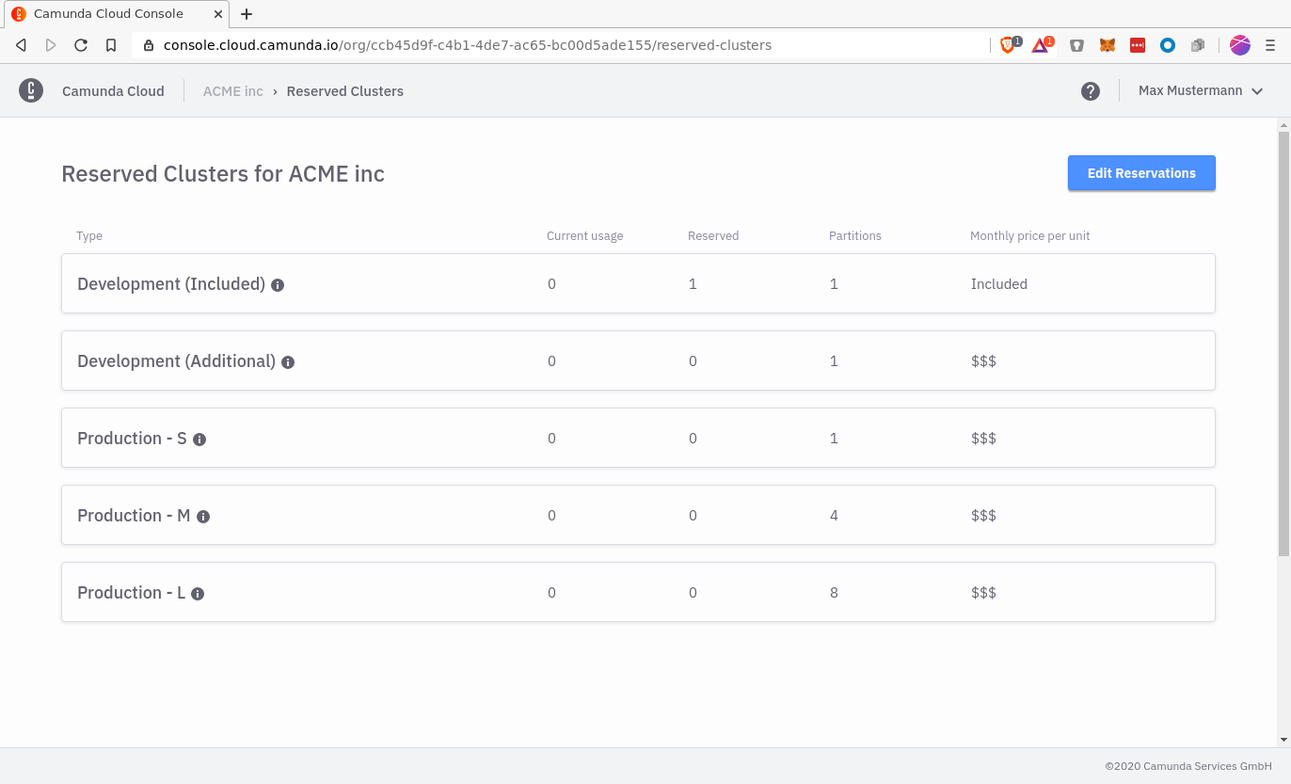
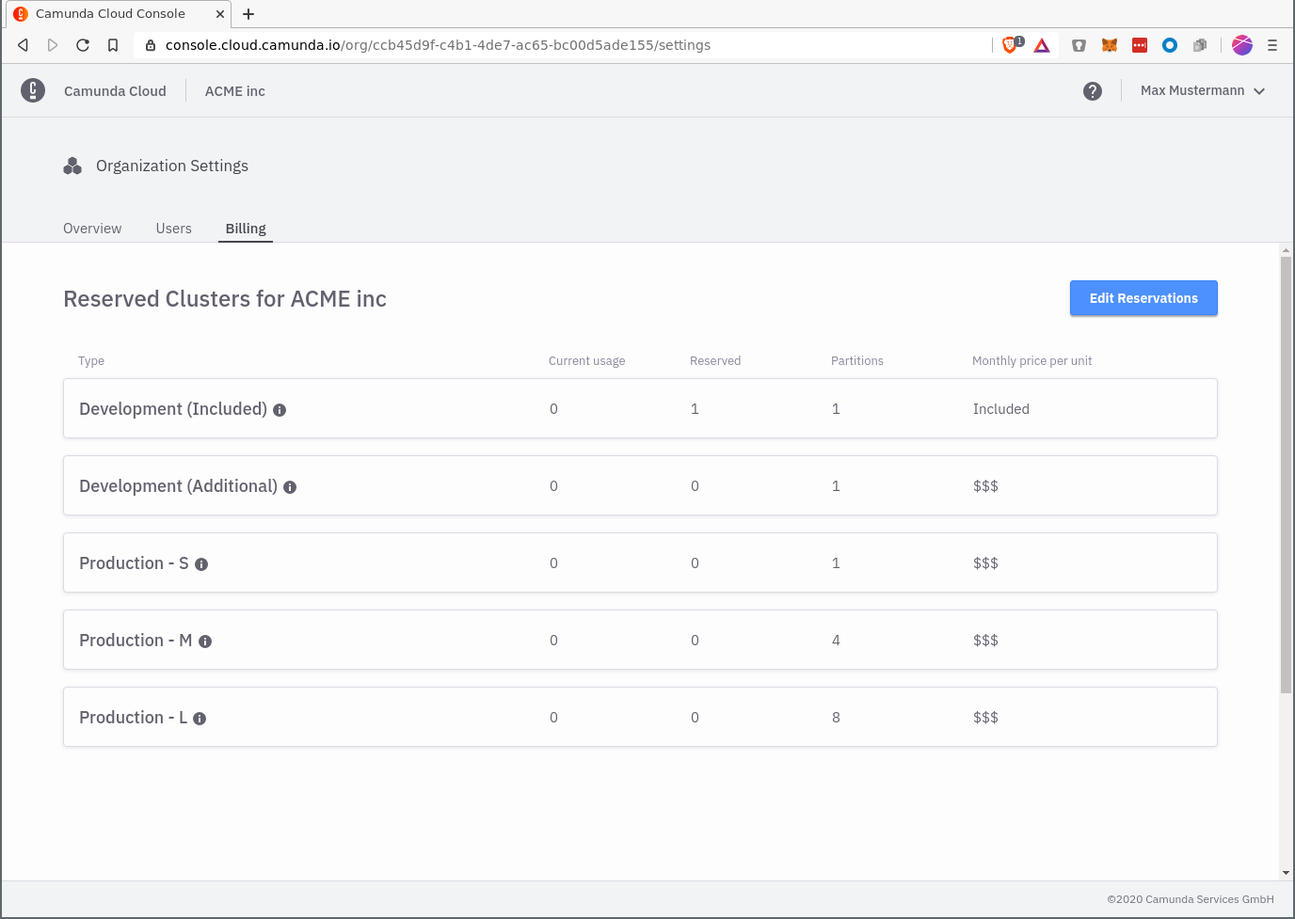
Deploy website
Deploy website version based on 33ee877110cbfe5472c657fe02191b79c25a7f81

diff --git a/docs/camunda-cloud-console.html b/docs/camunda-cloud-console.html
@@ -65,6 +65,42 @@
 <p>To interact with Zeebe, an application must authenticate itself via OAuth. A <a href="/docs/clients">client</a> must be created in advance for this purpose.</p>
 <h2><a class="anchor" aria-hidden="true" id="rights-concept"></a><a href="#rights-concept" aria-hidden="true" class="hash-link"><svg class="hash-link-icon" aria-hidden="true" height="16" version="1.1" viewBox="0 0 16 16" width="16"><path fill-rule="evenodd" d="M4 9h1v1H4c-1.5 0-3-1.69-3-3.5S2.55 3 4 3h4c1.45 0 3 1.69 3 3.5 0 1.41-.91 2.72-2 3.25V8.59c.58-.45 1-1.27 1-2.09C10 5.22 8.98 4 8 4H4c-.98 0-2 1.22-2 2.5S3 9 4 9zm9-3h-1v1h1c1 0 2 1.22 2 2.5S13.98 12 13 12H9c-.98 0-2-1.22-2-2.5 0-.83.42-1.64 1-2.09V6.25c-1.09.53-2 1.84-2 3.25C6 11.31 7.55 13 9 13h4c1.45 0 3-1.69 3-3.5S14.5 6 13 6z"></path></svg></a>Rights concept</h2>
 <p>When a user signs up to Camunda Cloud, they receive a personal organization. Clusters that the user creates in this organization are assigned to this organization.</p>
-<p>If several users need access to the same Zeebe cluster, all users can be assigned to the same organization. A corresponding organisation management for users is planned, but not yet implemented. If it's already necessary for your project, please contact the Camunda Cloud Team.</p>
-<p>If a user is assigned to more than one organization, the organization can be changed in the avatar menu of the navigation bar.</p>
-</span></div></article></div><div class="docLastUpdate"><em>Last updated on 6/8/2020</em></div><div class="docs-prevnext"><a class="docs-prev button" href="/docs/quick-start"><span class="arrow-prev">← </span><span>Quick start</span></a><a class="docs-next button" href="/docs/cli-zbctl"><span>CLI</span><span class="arrow-next"> →</span></a></div></div></div><nav class="onPageNav"><ul class="toc-headings"><li><a href="#rights-concept">Rights concept</a></li></ul></nav></div><footer class="nav-footer" id="footer"><section class="sitemap"><a href="/" class="nav-home"></a><div><h5>Docs</h5><a href="/docs/en/welcome.html">Welcome</a><a href="/docs/en/quick-start.html">Quick start</a></div><div><h5>Community</h5><a href="https://zeebe-io.slack.com/">Community Chat</a><a href="https://twitter.com/camunda" target="_blank" rel="noreferrer noopener">Twitter</a></div><div><h5>More</h5><a href="https://blog.camunda.com/">Blog</a><a href="https://github.com/camunda">GitHub</a><a href="https://console.cloud.camunda.io/terms/">Terms and Conditions</a></div></section><section class="copyright">Copyright © 2020 Camunda Cloud</section></footer></div></body></html>
+<p>If several users need access to the same Zeebe cluster, all users can be assigned to the same organization. If a user is assigned to more than one organization, the organization can be changed in the menu of the navigation bar.</p>
+<p><img src="./assets/avatar-menue-multiple-organisations.png" alt="avatar-menue-multiple-organisations"></p>
+<h2><a class="anchor" aria-hidden="true" id="organization-settings"></a><a href="#organization-settings" aria-hidden="true" class="hash-link"><svg class="hash-link-icon" aria-hidden="true" height="16" version="1.1" viewBox="0 0 16 16" width="16"><path fill-rule="evenodd" d="M4 9h1v1H4c-1.5 0-3-1.69-3-3.5S2.55 3 4 3h4c1.45 0 3 1.69 3 3.5 0 1.41-.91 2.72-2 3.25V8.59c.58-.45 1-1.27 1-2.09C10 5.22 8.98 4 8 4H4c-.98 0-2 1.22-2 2.5S3 9 4 9zm9-3h-1v1h1c1 0 2 1.22 2 2.5S13.98 12 13 12H9c-.98 0-2-1.22-2-2.5 0-.83.42-1.64 1-2.09V6.25c-1.09.53-2 1.84-2 3.25C6 11.31 7.55 13 9 13h4c1.45 0 3-1.69 3-3.5S14.5 6 13 6z"></path></svg></a>Organization Settings</h2>
+<p>Organization settings can be accessed via the menu in the navigation bar.</p>
+<p><img src="./assets/avatar-menue.png" alt="avatar-menue"></p>
+<h3><a class="anchor" aria-hidden="true" id="overview"></a><a href="#overview" aria-hidden="true" class="hash-link"><svg class="hash-link-icon" aria-hidden="true" height="16" version="1.1" viewBox="0 0 16 16" width="16"><path fill-rule="evenodd" d="M4 9h1v1H4c-1.5 0-3-1.69-3-3.5S2.55 3 4 3h4c1.45 0 3 1.69 3 3.5 0 1.41-.91 2.72-2 3.25V8.59c.58-.45 1-1.27 1-2.09C10 5.22 8.98 4 8 4H4c-.98 0-2 1.22-2 2.5S3 9 4 9zm9-3h-1v1h1c1 0 2 1.22 2 2.5S13.98 12 13 12H9c-.98 0-2-1.22-2-2.5 0-.83.42-1.64 1-2.09V6.25c-1.09.53-2 1.84-2 3.25C6 11.31 7.55 13 9 13h4c1.45 0 3-1.69 3-3.5S14.5 6 13 6z"></path></svg></a>Overview</h3>
+<p>The overview provides a summary of the organization:</p>
+<ul>
+<li>Organization name</li>
+<li>Pricing Plan</li>
+<li>Owner of the organization</li>
+</ul>
+<h3><a class="anchor" aria-hidden="true" id="users"></a><a href="#users" aria-hidden="true" class="hash-link"><svg class="hash-link-icon" aria-hidden="true" height="16" version="1.1" viewBox="0 0 16 16" width="16"><path fill-rule="evenodd" d="M4 9h1v1H4c-1.5 0-3-1.69-3-3.5S2.55 3 4 3h4c1.45 0 3 1.69 3 3.5 0 1.41-.91 2.72-2 3.25V8.59c.58-.45 1-1.27 1-2.09C10 5.22 8.98 4 8 4H4c-.98 0-2 1.22-2 2.5S3 9 4 9zm9-3h-1v1h1c1 0 2 1.22 2 2.5S13.98 12 13 12H9c-.98 0-2-1.22-2-2.5 0-.83.42-1.64 1-2.09V6.25c-1.09.53-2 1.84-2 3.25C6 11.31 7.55 13 9 13h4c1.45 0 3-1.69 3-3.5S14.5 6 13 6z"></path></svg></a>Users</h3>
+<p>Under this setting members of the current organization can be managed. A user can have one of the following roles:</p>
+<ul>
+<li>Owner: Owner of the organization (currently limited to one user, cannot be changed by the user)</li>
+<li>Admin: Restricted rights for user management</li>
+<li>Member: Can manage Zeebe Clusters and Client and use Operate</li>
+</ul>
+<p>The following table illustrates the rights of the each roles:</p>
+<table>
+<thead>
+<tr><th></th><th>Owner</th><th>Admin</th><th>Member</th></tr>
+</thead>
+<tbody>
+<tr><td>Manage Zeebe Clusters</td><td>X</td><td>X</td><td>X</td></tr>
+<tr><td>Manage Clients</td><td>X</td><td>X</td><td>X</td></tr>
+<tr><td>Use Operate</td><td>X</td><td>X</td><td>X</td></tr>
+<tr><td>Users: Manage Members</td><td>X</td><td>X</td><td></td></tr>
+<tr><td>Billing: Manage Reservations</td><td>X</td><td>X</td><td></td></tr>
+<tr><td>Billing: Request Paid Plan</td><td>X</td><td>X</td><td></td></tr>
+<tr><td>Users: Manage Admins</td><td>X</td><td></td><td></td></tr>
+</tbody>
+</table>
+<p>Users are invited to a Camunda cloud organisation via their email address, which must be accepted by the user. As long as the invitation has not been accepted, the user remains in the Pending state.</p>
+<p>People can also be invited to an organisation that does not yet have a Camunda cloud account. In this case the invited person must first create a Camunda Cloud account and then has access to the organisation.</p>
+<h3><a class="anchor" aria-hidden="true" id="billing"></a><a href="#billing" aria-hidden="true" class="hash-link"><svg class="hash-link-icon" aria-hidden="true" height="16" version="1.1" viewBox="0 0 16 16" width="16"><path fill-rule="evenodd" d="M4 9h1v1H4c-1.5 0-3-1.69-3-3.5S2.55 3 4 3h4c1.45 0 3 1.69 3 3.5 0 1.41-.91 2.72-2 3.25V8.59c.58-.45 1-1.27 1-2.09C10 5.22 8.98 4 8 4H4c-.98 0-2 1.22-2 2.5S3 9 4 9zm9-3h-1v1h1c1 0 2 1.22 2 2.5S13.98 12 13 12H9c-.98 0-2-1.22-2-2.5 0-.83.42-1.64 1-2.09V6.25c-1.09.53-2 1.84-2 3.25C6 11.31 7.55 13 9 13h4c1.45 0 3-1.69 3-3.5S14.5 6 13 6z"></path></svg></a>Billing</h3>
+<p>This setting is only visible in the Professional Plan for Owners and Admins. More about it under <a href="/docs/professional-reservations">Managing Reservations</a>.</p>
+</span></div></article></div><div class="docLastUpdate"><em>Last updated on 7/28/2020</em></div><div class="docs-prevnext"><a class="docs-prev button" href="/docs/quick-start"><span class="arrow-prev">← </span><span>Quick start</span></a><a class="docs-next button" href="/docs/cli-zbctl"><span>CLI</span><span class="arrow-next"> →</span></a></div></div></div><nav class="onPageNav"><ul class="toc-headings"><li><a href="#rights-concept">Rights concept</a></li><li><a href="#organization-settings">Organization Settings</a><ul class="toc-headings"><li><a href="#overview">Overview</a></li><li><a href="#users">Users</a></li><li><a href="#billing">Billing</a></li></ul></li></ul></nav></div><footer class="nav-footer" id="footer"><section class="sitemap"><a href="/" class="nav-home"></a><div><h5>Docs</h5><a href="/docs/en/welcome.html">Welcome</a><a href="/docs/en/quick-start.html">Quick start</a></div><div><h5>Community</h5><a href="https://zeebe-io.slack.com/">Community Chat</a><a href="https://twitter.com/camunda" target="_blank" rel="noreferrer noopener">Twitter</a></div><div><h5>More</h5><a href="https://blog.camunda.com/">Blog</a><a href="https://github.com/camunda">GitHub</a><a href="https://console.cloud.camunda.io/terms/">Terms and Conditions</a></div></section><section class="copyright">Copyright © 2020 Camunda Cloud</section></footer></div></body></html>

diff --git a/docs/camunda-cloud-console/index.html b/docs/camunda-cloud-console/index.html
@@ -65,6 +65,42 @@
 <p>To interact with Zeebe, an application must authenticate itself via OAuth. A <a href="/docs/clients">client</a> must be created in advance for this purpose.</p>
 <h2><a class="anchor" aria-hidden="true" id="rights-concept"></a><a href="#rights-concept" aria-hidden="true" class="hash-link"><svg class="hash-link-icon" aria-hidden="true" height="16" version="1.1" viewBox="0 0 16 16" width="16"><path fill-rule="evenodd" d="M4 9h1v1H4c-1.5 0-3-1.69-3-3.5S2.55 3 4 3h4c1.45 0 3 1.69 3 3.5 0 1.41-.91 2.72-2 3.25V8.59c.58-.45 1-1.27 1-2.09C10 5.22 8.98 4 8 4H4c-.98 0-2 1.22-2 2.5S3 9 4 9zm9-3h-1v1h1c1 0 2 1.22 2 2.5S13.98 12 13 12H9c-.98 0-2-1.22-2-2.5 0-.83.42-1.64 1-2.09V6.25c-1.09.53-2 1.84-2 3.25C6 11.31 7.55 13 9 13h4c1.45 0 3-1.69 3-3.5S14.5 6 13 6z"></path></svg></a>Rights concept</h2>
 <p>When a user signs up to Camunda Cloud, they receive a personal organization. Clusters that the user creates in this organization are assigned to this organization.</p>
-<p>If several users need access to the same Zeebe cluster, all users can be assigned to the same organization. A corresponding organisation management for users is planned, but not yet implemented. If it's already necessary for your project, please contact the Camunda Cloud Team.</p>
-<p>If a user is assigned to more than one organization, the organization can be changed in the avatar menu of the navigation bar.</p>
-</span></div></article></div><div class="docLastUpdate"><em>Last updated on 6/8/2020</em></div><div class="docs-prevnext"><a class="docs-prev button" href="/docs/quick-start"><span class="arrow-prev">← </span><span>Quick start</span></a><a class="docs-next button" href="/docs/cli-zbctl"><span>CLI</span><span class="arrow-next"> →</span></a></div></div></div><nav class="onPageNav"><ul class="toc-headings"><li><a href="#rights-concept">Rights concept</a></li></ul></nav></div><footer class="nav-footer" id="footer"><section class="sitemap"><a href="/" class="nav-home"></a><div><h5>Docs</h5><a href="/docs/en/welcome.html">Welcome</a><a href="/docs/en/quick-start.html">Quick start</a></div><div><h5>Community</h5><a href="https://zeebe-io.slack.com/">Community Chat</a><a href="https://twitter.com/camunda" target="_blank" rel="noreferrer noopener">Twitter</a></div><div><h5>More</h5><a href="https://blog.camunda.com/">Blog</a><a href="https://github.com/camunda">GitHub</a><a href="https://console.cloud.camunda.io/terms/">Terms and Conditions</a></div></section><section class="copyright">Copyright © 2020 Camunda Cloud</section></footer></div></body></html>
+<p>If several users need access to the same Zeebe cluster, all users can be assigned to the same organization. If a user is assigned to more than one organization, the organization can be changed in the menu of the navigation bar.</p>
+<p><img src="./assets/avatar-menue-multiple-organisations.png" alt="avatar-menue-multiple-organisations"></p>
+<h2><a class="anchor" aria-hidden="true" id="organization-settings"></a><a href="#organization-settings" aria-hidden="true" class="hash-link"><svg class="hash-link-icon" aria-hidden="true" height="16" version="1.1" viewBox="0 0 16 16" width="16"><path fill-rule="evenodd" d="M4 9h1v1H4c-1.5 0-3-1.69-3-3.5S2.55 3 4 3h4c1.45 0 3 1.69 3 3.5 0 1.41-.91 2.72-2 3.25V8.59c.58-.45 1-1.27 1-2.09C10 5.22 8.98 4 8 4H4c-.98 0-2 1.22-2 2.5S3 9 4 9zm9-3h-1v1h1c1 0 2 1.22 2 2.5S13.98 12 13 12H9c-.98 0-2-1.22-2-2.5 0-.83.42-1.64 1-2.09V6.25c-1.09.53-2 1.84-2 3.25C6 11.31 7.55 13 9 13h4c1.45 0 3-1.69 3-3.5S14.5 6 13 6z"></path></svg></a>Organization Settings</h2>
+<p>Organization settings can be accessed via the menu in the navigation bar.</p>
+<p><img src="./assets/avatar-menue.png" alt="avatar-menue"></p>
+<h3><a class="anchor" aria-hidden="true" id="overview"></a><a href="#overview" aria-hidden="true" class="hash-link"><svg class="hash-link-icon" aria-hidden="true" height="16" version="1.1" viewBox="0 0 16 16" width="16"><path fill-rule="evenodd" d="M4 9h1v1H4c-1.5 0-3-1.69-3-3.5S2.55 3 4 3h4c1.45 0 3 1.69 3 3.5 0 1.41-.91 2.72-2 3.25V8.59c.58-.45 1-1.27 1-2.09C10 5.22 8.98 4 8 4H4c-.98 0-2 1.22-2 2.5S3 9 4 9zm9-3h-1v1h1c1 0 2 1.22 2 2.5S13.98 12 13 12H9c-.98 0-2-1.22-2-2.5 0-.83.42-1.64 1-2.09V6.25c-1.09.53-2 1.84-2 3.25C6 11.31 7.55 13 9 13h4c1.45 0 3-1.69 3-3.5S14.5 6 13 6z"></path></svg></a>Overview</h3>
+<p>The overview provides a summary of the organization:</p>
+<ul>
+<li>Organization name</li>
+<li>Pricing Plan</li>
+<li>Owner of the organization</li>
+</ul>
+<h3><a class="anchor" aria-hidden="true" id="users"></a><a href="#users" aria-hidden="true" class="hash-link"><svg class="hash-link-icon" aria-hidden="true" height="16" version="1.1" viewBox="0 0 16 16" width="16"><path fill-rule="evenodd" d="M4 9h1v1H4c-1.5 0-3-1.69-3-3.5S2.55 3 4 3h4c1.45 0 3 1.69 3 3.5 0 1.41-.91 2.72-2 3.25V8.59c.58-.45 1-1.27 1-2.09C10 5.22 8.98 4 8 4H4c-.98 0-2 1.22-2 2.5S3 9 4 9zm9-3h-1v1h1c1 0 2 1.22 2 2.5S13.98 12 13 12H9c-.98 0-2-1.22-2-2.5 0-.83.42-1.64 1-2.09V6.25c-1.09.53-2 1.84-2 3.25C6 11.31 7.55 13 9 13h4c1.45 0 3-1.69 3-3.5S14.5 6 13 6z"></path></svg></a>Users</h3>
+<p>Under this setting members of the current organization can be managed. A user can have one of the following roles:</p>
+<ul>
+<li>Owner: Owner of the organization (currently limited to one user, cannot be changed by the user)</li>
+<li>Admin: Restricted rights for user management</li>
+<li>Member: Can manage Zeebe Clusters and Client and use Operate</li>
+</ul>
+<p>The following table illustrates the rights of the each roles:</p>
+<table>
+<thead>
+<tr><th></th><th>Owner</th><th>Admin</th><th>Member</th></tr>
+</thead>
+<tbody>
+<tr><td>Manage Zeebe Clusters</td><td>X</td><td>X</td><td>X</td></tr>
+<tr><td>Manage Clients</td><td>X</td><td>X</td><td>X</td></tr>
+<tr><td>Use Operate</td><td>X</td><td>X</td><td>X</td></tr>
+<tr><td>Users: Manage Members</td><td>X</td><td>X</td><td></td></tr>
+<tr><td>Billing: Manage Reservations</td><td>X</td><td>X</td><td></td></tr>
+<tr><td>Billing: Request Paid Plan</td><td>X</td><td>X</td><td></td></tr>
+<tr><td>Users: Manage Admins</td><td>X</td><td></td><td></td></tr>
+</tbody>
+</table>
+<p>Users are invited to a Camunda cloud organisation via their email address, which must be accepted by the user. As long as the invitation has not been accepted, the user remains in the Pending state.</p>
+<p>People can also be invited to an organisation that does not yet have a Camunda cloud account. In this case the invited person must first create a Camunda Cloud account and then has access to the organisation.</p>
+<h3><a class="anchor" aria-hidden="true" id="billing"></a><a href="#billing" aria-hidden="true" class="hash-link"><svg class="hash-link-icon" aria-hidden="true" height="16" version="1.1" viewBox="0 0 16 16" width="16"><path fill-rule="evenodd" d="M4 9h1v1H4c-1.5 0-3-1.69-3-3.5S2.55 3 4 3h4c1.45 0 3 1.69 3 3.5 0 1.41-.91 2.72-2 3.25V8.59c.58-.45 1-1.27 1-2.09C10 5.22 8.98 4 8 4H4c-.98 0-2 1.22-2 2.5S3 9 4 9zm9-3h-1v1h1c1 0 2 1.22 2 2.5S13.98 12 13 12H9c-.98 0-2-1.22-2-2.5 0-.83.42-1.64 1-2.09V6.25c-1.09.53-2 1.84-2 3.25C6 11.31 7.55 13 9 13h4c1.45 0 3-1.69 3-3.5S14.5 6 13 6z"></path></svg></a>Billing</h3>
+<p>This setting is only visible in the Professional Plan for Owners and Admins. More about it under <a href="/docs/professional-reservations">Managing Reservations</a>.</p>
+</span></div></article></div><div class="docLastUpdate"><em>Last updated on 7/28/2020</em></div><div class="docs-prevnext"><a class="docs-prev button" href="/docs/quick-start"><span class="arrow-prev">← </span><span>Quick start</span></a><a class="docs-next button" href="/docs/cli-zbctl"><span>CLI</span><span class="arrow-next"> →</span></a></div></div></div><nav class="onPageNav"><ul class="toc-headings"><li><a href="#rights-concept">Rights concept</a></li><li><a href="#organization-settings">Organization Settings</a><ul class="toc-headings"><li><a href="#overview">Overview</a></li><li><a href="#users">Users</a></li><li><a href="#billing">Billing</a></li></ul></li></ul></nav></div><footer class="nav-footer" id="footer"><section class="sitemap"><a href="/" class="nav-home"></a><div><h5>Docs</h5><a href="/docs/en/welcome.html">Welcome</a><a href="/docs/en/quick-start.html">Quick start</a></div><div><h5>Community</h5><a href="https://zeebe-io.slack.com/">Community Chat</a><a href="https://twitter.com/camunda" target="_blank" rel="noreferrer noopener">Twitter</a></div><div><h5>More</h5><a href="https://blog.camunda.com/">Blog</a><a href="https://github.com/camunda">GitHub</a><a href="https://console.cloud.camunda.io/terms/">Terms and Conditions</a></div></section><section class="copyright">Copyright © 2020 Camunda Cloud</section></footer></div></body></html>

diff --git a/docs/professional-reservations.html b/docs/professional-reservations.html
@@ -56,7 +56,7 @@
             });
         </script></nav></div><div class="container mainContainer docsContainer"><div class="wrapper"><div class="post"><header class="postHeader"><h1 id="__docusaurus" class="postHeaderTitle">Managing Reservations</h1></header><article><div><span><p>Once signed up for the professional plan, you have access to the Cluster Reservations Page.</p>
 <p>Cluster Reservations control how many clusters you can deploy. Increasing the number of reservations allows you to deploy more clusters, decreasing the number of reservations does the opposite.</p>
-<p>You can access the Cluster Reservations page by selecting the menu entry &quot;Reserved Clusters&quot; from the Camunda Cloud Console navigation bar.</p>
+<p>You can access the Cluster Reservations page by selecting the menu entry &quot;Organization Settings&quot; from the Camunda Cloud Console navigation bar.</p>
 <h2><a class="anchor" aria-hidden="true" id="inspect-active-reservations"></a><a href="#inspect-active-reservations" aria-hidden="true" class="hash-link"><svg class="hash-link-icon" aria-hidden="true" height="16" version="1.1" viewBox="0 0 16 16" width="16"><path fill-rule="evenodd" d="M4 9h1v1H4c-1.5 0-3-1.69-3-3.5S2.55 3 4 3h4c1.45 0 3 1.69 3 3.5 0 1.41-.91 2.72-2 3.25V8.59c.58-.45 1-1.27 1-2.09C10 5.22 8.98 4 8 4H4c-.98 0-2 1.22-2 2.5S3 9 4 9zm9-3h-1v1h1c1 0 2 1.22 2 2.5S13.98 12 13 12H9c-.98 0-2-1.22-2-2.5 0-.83.42-1.64 1-2.09V6.25c-1.09.53-2 1.84-2 3.25C6 11.31 7.55 13 9 13h4c1.45 0 3-1.69 3-3.5S14.5 6 13 6z"></path></svg></a>Inspect active Reservations</h2>
 <p>The page lists available cluster types along with their specification. A cluster type has the following parameters:</p>
 <ul>
@@ -70,4 +70,4 @@
 <h2><a class="anchor" aria-hidden="true" id="edit-reservations"></a><a href="#edit-reservations" aria-hidden="true" class="hash-link"><svg class="hash-link-icon" aria-hidden="true" height="16" version="1.1" viewBox="0 0 16 16" width="16"><path fill-rule="evenodd" d="M4 9h1v1H4c-1.5 0-3-1.69-3-3.5S2.55 3 4 3h4c1.45 0 3 1.69 3 3.5 0 1.41-.91 2.72-2 3.25V8.59c.58-.45 1-1.27 1-2.09C10 5.22 8.98 4 8 4H4c-.98 0-2 1.22-2 2.5S3 9 4 9zm9-3h-1v1h1c1 0 2 1.22 2 2.5S13.98 12 13 12H9c-.98 0-2-1.22-2-2.5 0-.83.42-1.64 1-2.09V6.25c-1.09.53-2 1.84-2 3.25C6 11.31 7.55 13 9 13h4c1.45 0 3-1.69 3-3.5S14.5 6 13 6z"></path></svg></a>Edit Reservations</h2>
 <p>The number of reserved clusters can be changed with the Edit button. The number of reserved clusters cannot exceed the maximum limit and cannot go below what is currently in use.</p>
 <p><img src="./assets/early-access-reserved-clusters-edit.png" alt="reserved-clusters-overview"></p>
-</span></div></article></div><div class="docLastUpdate"><em>Last updated on 4/23/2020</em></div><div class="docs-prevnext"><a class="docs-prev button" href="/docs/professional-requesting-access"><span class="arrow-prev">← </span><span>Requesting Access</span></a><a class="docs-next button" href="/docs/professional-billing"><span>Billing</span><span class="arrow-next"> →</span></a></div></div></div><nav class="onPageNav"><ul class="toc-headings"><li><a href="#inspect-active-reservations">Inspect active Reservations</a></li><li><a href="#edit-reservations">Edit Reservations</a></li></ul></nav></div><footer class="nav-footer" id="footer"><section class="sitemap"><a href="/" class="nav-home"></a><div><h5>Docs</h5><a href="/docs/en/welcome.html">Welcome</a><a href="/docs/en/quick-start.html">Quick start</a></div><div><h5>Community</h5><a href="https://zeebe-io.slack.com/">Community Chat</a><a href="https://twitter.com/camunda" target="_blank" rel="noreferrer noopener">Twitter</a></div><div><h5>More</h5><a href="https://blog.camunda.com/">Blog</a><a href="https://github.com/camunda">GitHub</a><a href="https://console.cloud.camunda.io/terms/">Terms and Conditions</a></div></section><section class="copyright">Copyright © 2020 Camunda Cloud</section></footer></div></body></html>
+</span></div></article></div><div class="docLastUpdate"><em>Last updated on 7/28/2020</em></div><div class="docs-prevnext"><a class="docs-prev button" href="/docs/professional-requesting-access"><span class="arrow-prev">← </span><span>Requesting Access</span></a><a class="docs-next button" href="/docs/professional-billing"><span>Billing</span><span class="arrow-next"> →</span></a></div></div></div><nav class="onPageNav"><ul class="toc-headings"><li><a href="#inspect-active-reservations">Inspect active Reservations</a></li><li><a href="#edit-reservations">Edit Reservations</a></li></ul></nav></div><footer class="nav-footer" id="footer"><section class="sitemap"><a href="/" class="nav-home"></a><div><h5>Docs</h5><a href="/docs/en/welcome.html">Welcome</a><a href="/docs/en/quick-start.html">Quick start</a></div><div><h5>Community</h5><a href="https://zeebe-io.slack.com/">Community Chat</a><a href="https://twitter.com/camunda" target="_blank" rel="noreferrer noopener">Twitter</a></div><div><h5>More</h5><a href="https://blog.camunda.com/">Blog</a><a href="https://github.com/camunda">GitHub</a><a href="https://console.cloud.camunda.io/terms/">Terms and Conditions</a></div></section><section class="copyright">Copyright © 2020 Camunda Cloud</section></footer></div></body></html>

diff --git a/docs/professional-reservations/index.html b/docs/professional-reservations/index.html
@@ -56,7 +56,7 @@
             });
         </script></nav></div><div class="container mainContainer docsContainer"><div class="wrapper"><div class="post"><header class="postHeader"><h1 id="__docusaurus" class="postHeaderTitle">Managing Reservations</h1></header><article><div><span><p>Once signed up for the professional plan, you have access to the Cluster Reservations Page.</p>
 <p>Cluster Reservations control how many clusters you can deploy. Increasing the number of reservations allows you to deploy more clusters, decreasing the number of reservations does the opposite.</p>
-<p>You can access the Cluster Reservations page by selecting the menu entry &quot;Reserved Clusters&quot; from the Camunda Cloud Console navigation bar.</p>
+<p>You can access the Cluster Reservations page by selecting the menu entry &quot;Organization Settings&quot; from the Camunda Cloud Console navigation bar.</p>
 <h2><a class="anchor" aria-hidden="true" id="inspect-active-reservations"></a><a href="#inspect-active-reservations" aria-hidden="true" class="hash-link"><svg class="hash-link-icon" aria-hidden="true" height="16" version="1.1" viewBox="0 0 16 16" width="16"><path fill-rule="evenodd" d="M4 9h1v1H4c-1.5 0-3-1.69-3-3.5S2.55 3 4 3h4c1.45 0 3 1.69 3 3.5 0 1.41-.91 2.72-2 3.25V8.59c.58-.45 1-1.27 1-2.09C10 5.22 8.98 4 8 4H4c-.98 0-2 1.22-2 2.5S3 9 4 9zm9-3h-1v1h1c1 0 2 1.22 2 2.5S13.98 12 13 12H9c-.98 0-2-1.22-2-2.5 0-.83.42-1.64 1-2.09V6.25c-1.09.53-2 1.84-2 3.25C6 11.31 7.55 13 9 13h4c1.45 0 3-1.69 3-3.5S14.5 6 13 6z"></path></svg></a>Inspect active Reservations</h2>
 <p>The page lists available cluster types along with their specification. A cluster type has the following parameters:</p>
 <ul>
@@ -70,4 +70,4 @@
 <h2><a class="anchor" aria-hidden="true" id="edit-reservations"></a><a href="#edit-reservations" aria-hidden="true" class="hash-link"><svg class="hash-link-icon" aria-hidden="true" height="16" version="1.1" viewBox="0 0 16 16" width="16"><path fill-rule="evenodd" d="M4 9h1v1H4c-1.5 0-3-1.69-3-3.5S2.55 3 4 3h4c1.45 0 3 1.69 3 3.5 0 1.41-.91 2.72-2 3.25V8.59c.58-.45 1-1.27 1-2.09C10 5.22 8.98 4 8 4H4c-.98 0-2 1.22-2 2.5S3 9 4 9zm9-3h-1v1h1c1 0 2 1.22 2 2.5S13.98 12 13 12H9c-.98 0-2-1.22-2-2.5 0-.83.42-1.64 1-2.09V6.25c-1.09.53-2 1.84-2 3.25C6 11.31 7.55 13 9 13h4c1.45 0 3-1.69 3-3.5S14.5 6 13 6z"></path></svg></a>Edit Reservations</h2>
 <p>The number of reserved clusters can be changed with the Edit button. The number of reserved clusters cannot exceed the maximum limit and cannot go below what is currently in use.</p>
 <p><img src="./assets/early-access-reserved-clusters-edit.png" alt="reserved-clusters-overview"></p>
-</span></div></article></div><div class="docLastUpdate"><em>Last updated on 4/23/2020</em></div><div class="docs-prevnext"><a class="docs-prev button" href="/docs/professional-requesting-access"><span class="arrow-prev">← </span><span>Requesting Access</span></a><a class="docs-next button" href="/docs/professional-billing"><span>Billing</span><span class="arrow-next"> →</span></a></div></div></div><nav class="onPageNav"><ul class="toc-headings"><li><a href="#inspect-active-reservations">Inspect active Reservations</a></li><li><a href="#edit-reservations">Edit Reservations</a></li></ul></nav></div><footer class="nav-footer" id="footer"><section class="sitemap"><a href="/" class="nav-home"></a><div><h5>Docs</h5><a href="/docs/en/welcome.html">Welcome</a><a href="/docs/en/quick-start.html">Quick start</a></div><div><h5>Community</h5><a href="https://zeebe-io.slack.com/">Community Chat</a><a href="https://twitter.com/camunda" target="_blank" rel="noreferrer noopener">Twitter</a></div><div><h5>More</h5><a href="https://blog.camunda.com/">Blog</a><a href="https://github.com/camunda">GitHub</a><a href="https://console.cloud.camunda.io/terms/">Terms and Conditions</a></div></section><section class="copyright">Copyright © 2020 Camunda Cloud</section></footer></div></body></html>
+</span></div></article></div><div class="docLastUpdate"><em>Last updated on 7/28/2020</em></div><div class="docs-prevnext"><a class="docs-prev button" href="/docs/professional-requesting-access"><span class="arrow-prev">← </span><span>Requesting Access</span></a><a class="docs-next button" href="/docs/professional-billing"><span>Billing</span><span class="arrow-next"> →</span></a></div></div></div><nav class="onPageNav"><ul class="toc-headings"><li><a href="#inspect-active-reservations">Inspect active Reservations</a></li><li><a href="#edit-reservations">Edit Reservations</a></li></ul></nav></div><footer class="nav-footer" id="footer"><section class="sitemap"><a href="/" class="nav-home"></a><div><h5>Docs</h5><a href="/docs/en/welcome.html">Welcome</a><a href="/docs/en/quick-start.html">Quick start</a></div><div><h5>Community</h5><a href="https://zeebe-io.slack.com/">Community Chat</a><a href="https://twitter.com/camunda" target="_blank" rel="noreferrer noopener">Twitter</a></div><div><h5>More</h5><a href="https://blog.camunda.com/">Blog</a><a href="https://github.com/camunda">GitHub</a><a href="https://console.cloud.camunda.io/terms/">Terms and Conditions</a></div></section><section class="copyright">Copyright © 2020 Camunda Cloud</section></footer></div></body></html>
